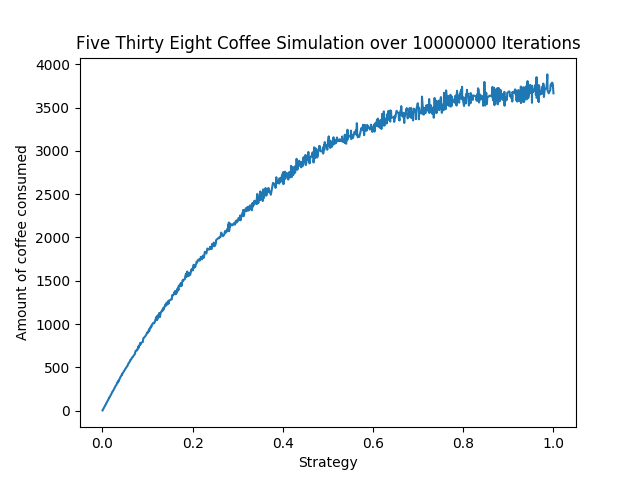
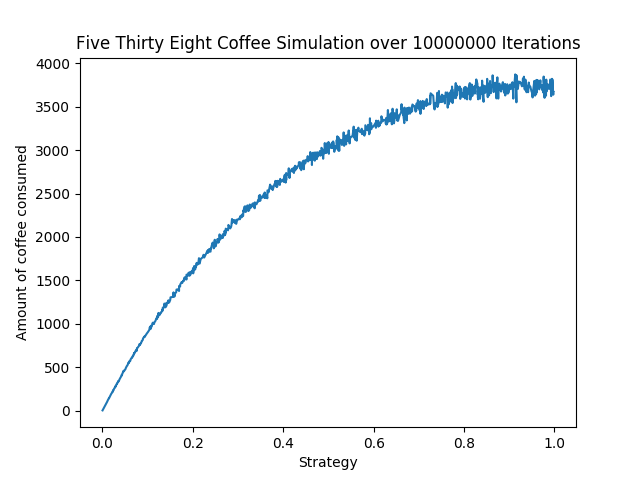
fixed README image path

diff --git a/coffee.py b/coffee.py
@@ -14,8 +14,8 @@ for i in range(NUM_ITERATIONS):
     if pot < 0:
         pot = 1.0
         fills[player] += 1
-        continue
-    coffee[player] += strategy[player]
+    else:
+        coffee[player] += strategy[player]
 
 scores = zip(strategy, coffee)
 scores = sorted(scores, key=lambda x: x[0])

diff --git a/README.md b/README.md
@@ -1,5 +1,5 @@
-This code simulates different strategies for the coffee problem proposed by FiveThirtyEight.
+This code simulates different strategies for the [coffee problem proposed by FiveThirtyEight](https://fivethirtyeight.com/features/can-you-drink-more-coffee-than-your-coworkers/).
 
-[!Graph Results](fig.png)
+![Graph of Results](fig.png)
 
 If you want to maximize the amount of coffee you drink, it appears you should take as much as possible.
